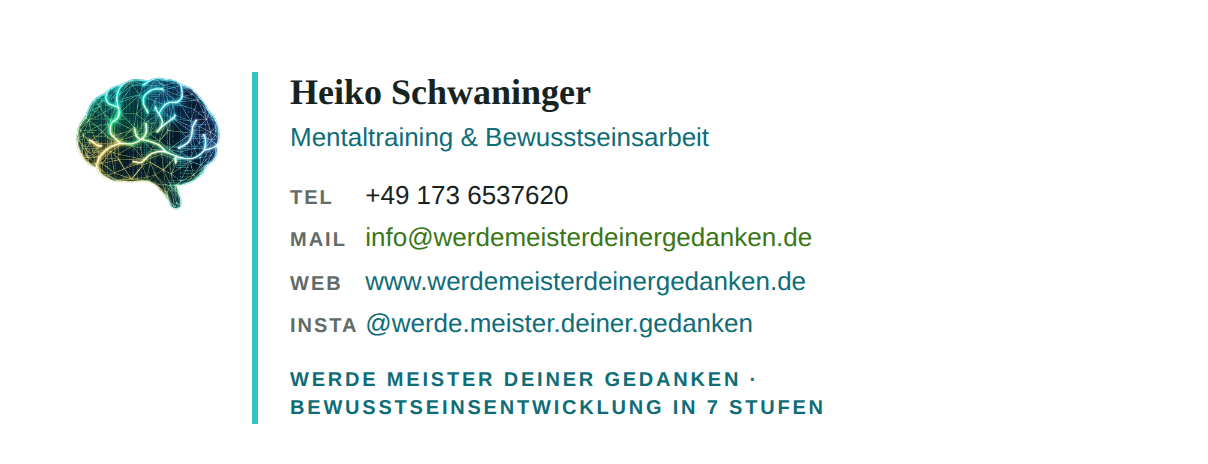
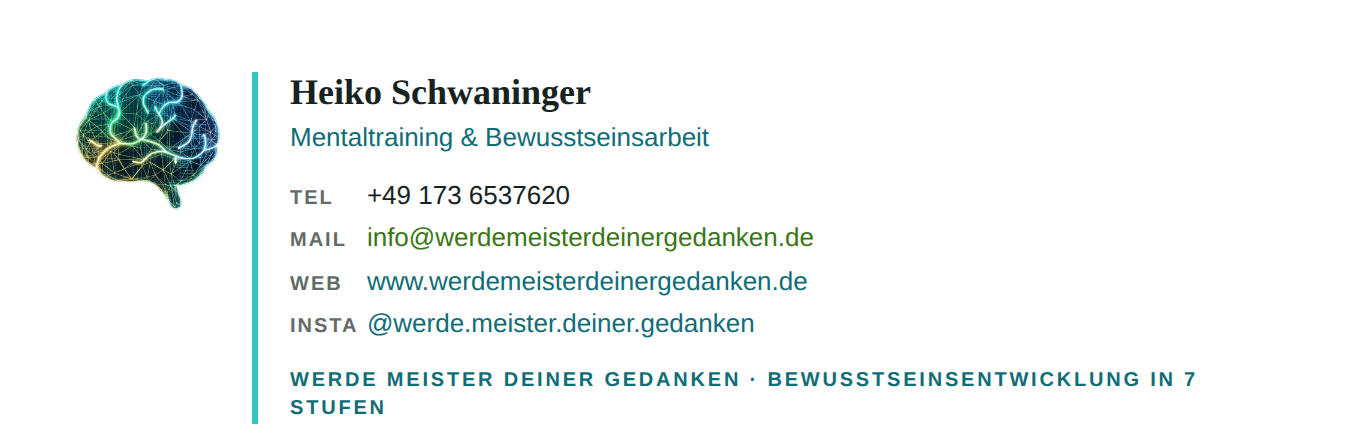
feat(print): Dark-Mode-Variante der E-Mail-Signatur
Der Signatur-Generator erzeugt jetzt zwei Varianten (signature("light"|"dark")):
- hell: kein eigener Grund, AA-Ersatztöne – für helle Mail-Oberflächen.
- dunkel: Navy-Karte mit eigenem Grund (bleibt dunkel, egal wie der Client
  rendert), Emblem-Glow, heller Name, Teal-300/Grün-Akzente – für Dark-Mode.

Neue Ausgaben: WMDG-Email-Signatur-Dark-Snippet.html und -Dark-Vorschau.png;
die Anleitungsseite zeigt beide Varianten samt Quelltext. Zwei Farbtokens
(teal300, slate/creamDim) in marke.mjs ergänzt.

- tools/print/README.md und Brandbook Kap. 07 nachgezogen.

Claude-Session: https://claude.ai/code/session_017ADpWozdCkf8oCMjoArAkE

Changed region(s): [[0.0306, 0.1491, 0.8882, 0.9839]]

diff --git a/tools/print/out/WMDG-Email-Signatur.html b/tools/print/out/WMDG-Email-Signatur.html
@@ -10,12 +10,13 @@
   pre{background:#f6f4ee;border:1px solid #e2ddd0;border-radius:10px;padding:16px;overflow-x:auto;font:400 12px/1.5 ui-monospace,Menlo,Consolas,monospace;color:#2a352f;white-space:pre-wrap;word-break:break-word;}
   ol{margin:0;padding-left:20px;color:#565f5b;} ol li{margin:6px 0;}
   code{background:#f6f4ee;padding:1px 5px;border-radius:5px;font:400 13px/1 ui-monospace,Menlo,Consolas,monospace;}
+  .tag{display:inline-block;font:700 10px/1 Arial, 'Helvetica Neue', Helvetica, sans-serif;letter-spacing:.1em;text-transform:uppercase;color:#626b67;margin-bottom:12px;}
 </style></head><body><div class="wrap">
   <h1>E-Mail-Signatur</h1>
   <p class="lead">Werde Meister deiner Gedanken · fertig zum Einsetzen in Gmail, Outlook &amp; Apple Mail.</p>
 
   <div class="card">
-    <h2>Vorschau</h2>
+    <span class="tag">Hell — für helle Mail-Oberflächen</span>
     <table role="presentation" cellpadding="0" cellspacing="0" border="0" style="border-collapse:collapse;font-family:Arial, 'Helvetica Neue', Helvetica, sans-serif;">
   <tr>
     <td valign="top" style="padding:0 16px 0 0;">
@@ -26,25 +27,25 @@
       <div style="font:400 13px/1.4 Arial, 'Helvetica Neue', Helvetica, sans-serif;color:#0f6d77;padding-top:2px;">Mentaltraining & Bewusstseinsarbeit</div>
       <table role="presentation" cellpadding="0" cellspacing="0" border="0" style="border-collapse:collapse;margin-top:9px;">
         <tr>
-    <td style="padding:1px 0;font:400 13px/1.5 Arial, 'Helvetica Neue', Helvetica, sans-serif;color:#626b67;white-space:nowrap;" valign="top">
+    <td style="padding:1px 0;white-space:nowrap;" valign="top">
       <span style="display:inline-block;width:34px;font:700 10px/1.5 Arial, 'Helvetica Neue', Helvetica, sans-serif;letter-spacing:.10em;text-transform:uppercase;color:#626b67;">Tel</span>
       <span style="font:400 13px/1.5 Arial, 'Helvetica Neue', Helvetica, sans-serif;color:#16231f;"><a href="tel:+491736537620" style="color:#16231f;text-decoration:none;">+49 173 6537620</a></span>
     </td>
   </tr>
         <tr>
-    <td style="padding:1px 0;font:400 13px/1.5 Arial, 'Helvetica Neue', Helvetica, sans-serif;color:#626b67;white-space:nowrap;" valign="top">
+    <td style="padding:1px 0;white-space:nowrap;" valign="top">
       <span style="display:inline-block;width:34px;font:700 10px/1.5 Arial, 'Helvetica Neue', Helvetica, sans-serif;letter-spacing:.10em;text-transform:uppercase;color:#626b67;">Mail</span>
       <span style="font:400 13px/1.5 Arial, 'Helvetica Neue', Helvetica, sans-serif;color:#16231f;"><a href="mailto:info@werdemeisterdeinergedanken.de" style="color:#3a7615;text-decoration:none;">info@werdemeisterdeinergedanken.de</a></span>
     </td>
   </tr>
         <tr>
-    <td style="padding:1px 0;font:400 13px/1.5 Arial, 'Helvetica Neue', Helvetica, sans-serif;color:#626b67;white-space:nowrap;" valign="top">
+    <td style="padding:1px 0;white-space:nowrap;" valign="top">
       <span style="display:inline-block;width:34px;font:700 10px/1.5 Arial, 'Helvetica Neue', Helvetica, sans-serif;letter-spacing:.10em;text-transform:uppercase;color:#626b67;">Web</span>
       <span style="font:400 13px/1.5 Arial, 'Helvetica Neue', Helvetica, sans-serif;color:#16231f;"><a href="https://www.werdemeisterdeinergedanken.de" style="color:#0f6d77;text-decoration:none;">www.werdemeisterdeinergedanken.de</a></span>
     </td>
   </tr>
         <tr>
-    <td style="padding:1px 0;font:400 13px/1.5 Arial, 'Helvetica Neue', Helvetica, sans-serif;color:#626b67;white-space:nowrap;" valign="top">
+    <td style="padding:1px 0;white-space:nowrap;" valign="top">
       <span style="display:inline-block;width:34px;font:700 10px/1.5 Arial, 'Helvetica Neue', Helvetica, sans-serif;letter-spacing:.10em;text-transform:uppercase;color:#626b67;">Insta</span>
       <span style="font:400 13px/1.5 Arial, 'Helvetica Neue', Helvetica, sans-serif;color:#16231f;"><a href="https://www.instagram.com/werde.meister.deiner.gedanken/" style="color:#0f6d77;text-decoration:none;">@werde.meister.deiner.gedanken</a></span>
     </td>
@@ -57,16 +58,59 @@
   </div>
 
   <div class="card">
+    <span class="tag">Dunkel — für dunkle Mail-Oberflächen / Dark Mode</span>
+    <table role="presentation" cellpadding="0" cellspacing="0" border="0" style="border-collapse:separate;background:#08102a;padding:22px 26px;border-radius:12px;font-family:Arial, 'Helvetica Neue', Helvetica, sans-serif;">
+  <tr>
+    <td valign="top" style="padding:0 16px 0 0;">
+      <img src="https://www.werdemeisterdeinergedanken.de/email/wmdg-signatur-logo.png" width="72" height="72" alt="Werde Meister deiner Gedanken" style="display:block;width:72px;height:72px;border:0;outline:none;">
+    </td>
+    <td valign="top" style="padding:0 0 0 16px;border-left:3px solid #5fd6d2;">
+      <div style="font:700 18px/1.2 Georgia, 'Times New Roman', Times, serif;color:#f4f2ec;">Heiko Schwaninger</div>
+      <div style="font:400 13px/1.4 Arial, 'Helvetica Neue', Helvetica, sans-serif;color:#5fd6d2;padding-top:2px;">Mentaltraining & Bewusstseinsarbeit</div>
+      <table role="presentation" cellpadding="0" cellspacing="0" border="0" style="border-collapse:collapse;margin-top:9px;">
+        <tr>
+    <td style="padding:1px 0;white-space:nowrap;" valign="top">
+      <span style="display:inline-block;width:34px;font:700 10px/1.5 Arial, 'Helvetica Neue', Helvetica, sans-serif;letter-spacing:.10em;text-transform:uppercase;color:#9aa7b8;">Tel</span>
+      <span style="font:400 13px/1.5 Arial, 'Helvetica Neue', Helvetica, sans-serif;color:#f4f2ec;"><a href="tel:+491736537620" style="color:#f4f2ec;text-decoration:none;">+49 173 6537620</a></span>
+    </td>
+  </tr>
+        <tr>
+    <td style="padding:1px 0;white-space:nowrap;" valign="top">
+      <span style="display:inline-block;width:34px;font:700 10px/1.5 Arial, 'Helvetica Neue', Helvetica, sans-serif;letter-spacing:.10em;text-transform:uppercase;color:#9aa7b8;">Mail</span>
+      <span style="font:400 13px/1.5 Arial, 'Helvetica Neue', Helvetica, sans-serif;color:#f4f2ec;"><a href="mailto:info@werdemeisterdeinergedanken.de" style="color:#a3d64f;text-decoration:none;">info@werdemeisterdeinergedanken.de</a></span>
+    </td>
+  </tr>
+        <tr>
+    <td style="padding:1px 0;white-space:nowrap;" valign="top">
+      <span style="display:inline-block;width:34px;font:700 10px/1.5 Arial, 'Helvetica Neue', Helvetica, sans-serif;letter-spacing:.10em;text-transform:uppercase;color:#9aa7b8;">Web</span>
+      <span style="font:400 13px/1.5 Arial, 'Helvetica Neue', Helvetica, sans-serif;color:#f4f2ec;"><a href="https://www.werdemeisterdeinergedanken.de" style="color:#5fd6d2;text-decoration:none;">www.werdemeisterdeinergedanken.de</a></span>
+    </td>
+  </tr>
+        <tr>
+    <td style="padding:1px 0;white-space:nowrap;" valign="top">
+      <span style="display:inline-block;width:34px;font:700 10px/1.5 Arial, 'Helvetica Neue', Helvetica, sans-serif;letter-spacing:.10em;text-transform:uppercase;color:#9aa7b8;">Insta</span>
+      <span style="font:400 13px/1.5 Arial, 'Helvetica Neue', Helvetica, sans-serif;color:#f4f2ec;"><a href="https://www.instagram.com/werde.meister.deiner.gedanken/" style="color:#5fd6d2;text-decoration:none;">@werde.meister.deiner.gedanken</a></span>
+    </td>
+  </tr>
+      </table>
+      <div style="font:700 10px/1.4 Arial, 'Helvetica Neue', Helvetica, sans-serif;letter-spacing:.14em;text-transform:uppercase;color:#5fd6d2;padding-top:11px;">Werde Meister deiner Gedanken · Bewusstseinsentwicklung in 7 Stufen</div>
+    </td>
+  </tr>
+</table>
+  </div>
+
+  <div class="card">
     <h2>So setzt du sie ein</h2>
     <ol>
-      <li><b>Gmail / Apple Mail:</b> die Signatur oben mit der Maus markieren, kopieren (⌘/Strg+C) und im Signatur-Editor einfügen (⌘/Strg+V).</li>
-      <li><b>Outlook / HTML-Editoren:</b> den Quelltext unten verwenden (Datei <code>WMDG-Email-Signatur-Snippet.html</code>).</li>
-      <li>Das Logo wird von <code>https://www.werdemeisterdeinergedanken.de/email/wmdg-signatur-logo.png</code> geladen – erst nach dem nächsten Website-Deploy erreichbar. Bis dahin zeigt die Vorschau ggf. ein leeres Bild.</li>
+      <li>Die gewünschte Variante (hell <b>oder</b> dunkel) mit der Maus markieren, kopieren (⌘/Strg+C) und im Signatur-Editor einfügen (⌘/Strg+V) — Gmail, Apple Mail.</li>
+      <li><b>Outlook / HTML-Editoren:</b> den passenden Quelltext bzw. die Snippet-Datei verwenden (<code>…-Snippet.html</code> hell, <code>…-Dark-Snippet.html</code> dunkel).</li>
+      <li>Die <b>dunkle</b> Variante bringt ihren eigenen Navy-Grund mit — sie bleibt dunkel, egal ob der Client hell oder dunkel darstellt. Die <b>helle</b> hat keinen eigenen Grund; zwingt ein Client sie in Dark Mode, kann sie dort schlechter lesbar werden — dann die dunkle nehmen.</li>
+      <li>Das Logo wird von <code>https://www.werdemeisterdeinergedanken.de/email/wmdg-signatur-logo.png</code> geladen — erst nach dem nächsten Website-Deploy erreichbar. Bis dahin zeigt die Vorschau ggf. ein leeres Bild.</li>
     </ol>
   </div>
 
   <div class="card">
-    <h2>Quelltext (HTML)</h2>
+    <h2>Quelltext — hell</h2>
     <pre>&lt;table role="presentation" cellpadding="0" cellspacing="0" border="0" style="border-collapse:collapse;font-family:Arial, 'Helvetica Neue', Helvetica, sans-serif;"&gt;
   &lt;tr&gt;
     &lt;td valign="top" style="padding:0 16px 0 0;"&gt;
@@ -77,31 +121,73 @@
       &lt;div style="font:400 13px/1.4 Arial, 'Helvetica Neue', Helvetica, sans-serif;color:#0f6d77;padding-top:2px;"&gt;Mentaltraining &amp; Bewusstseinsarbeit&lt;/div&gt;
       &lt;table role="presentation" cellpadding="0" cellspacing="0" border="0" style="border-collapse:collapse;margin-top:9px;"&gt;
         &lt;tr&gt;
-    &lt;td style="padding:1px 0;font:400 13px/1.5 Arial, 'Helvetica Neue', Helvetica, sans-serif;color:#626b67;white-space:nowrap;" valign="top"&gt;
+    &lt;td style="padding:1px 0;white-space:nowrap;" valign="top"&gt;
       &lt;span style="display:inline-block;width:34px;font:700 10px/1.5 Arial, 'Helvetica Neue', Helvetica, sans-serif;letter-spacing:.10em;text-transform:uppercase;color:#626b67;"&gt;Tel&lt;/span&gt;
       &lt;span style="font:400 13px/1.5 Arial, 'Helvetica Neue', Helvetica, sans-serif;color:#16231f;"&gt;&lt;a href="tel:+491736537620" style="color:#16231f;text-decoration:none;"&gt;+49 173 6537620&lt;/a&gt;&lt;/span&gt;
     &lt;/td&gt;
   &lt;/tr&gt;
         &lt;tr&gt;
-    &lt;td style="padding:1px 0;font:400 13px/1.5 Arial, 'Helvetica Neue', Helvetica, sans-serif;color:#626b67;white-space:nowrap;" valign="top"&gt;
+    &lt;td style="padding:1px 0;white-space:nowrap;" valign="top"&gt;
       &lt;span style="display:inline-block;width:34px;font:700 10px/1.5 Arial, 'Helvetica Neue', Helvetica, sans-serif;letter-spacing:.10em;text-transform:uppercase;color:#626b67;"&gt;Mail&lt;/span&gt;
       &lt;span style="font:400 13px/1.5 Arial, 'Helvetica Neue', Helvetica, sans-serif;color:#16231f;"&gt;&lt;a href="mailto:info@werdemeisterdeinergedanken.de" style="color:#3a7615;text-decoration:none;"&gt;info@werdemeisterdeinergedanken.de&lt;/a&gt;&lt;/span&gt;
     &lt;/td&gt;
   &lt;/tr&gt;
         &lt;tr&gt;
-    &lt;td style="padding:1px 0;font:400 13px/1.5 Arial, 'Helvetica Neue', Helvetica, sans-serif;color:#626b67;white-space:nowrap;" valign="top"&gt;
+    &lt;td style="padding:1px 0;white-space:nowrap;" valign="top"&gt;
       &lt;span style="display:inline-block;width:34px;font:700 10px/1.5 Arial, 'Helvetica Neue', Helvetica, sans-serif;letter-spacing:.10em;text-transform:uppercase;color:#626b67;"&gt;Web&lt;/span&gt;
       &lt;span style="font:400 13px/1.5 Arial, 'Helvetica Neue', Helvetica, sans-serif;color:#16231f;"&gt;&lt;a href="https://www.werdemeisterdeinergedanken.de" style="color:#0f6d77;text-decoration:none;"&gt;www.werdemeisterdeinergedanken.de&lt;/a&gt;&lt;/span&gt;
     &lt;/td&gt;
   &lt;/tr&gt;
         &lt;tr&gt;
-    &lt;td style="padding:1px 0;font:400 13px/1.5 Arial, 'Helvetica Neue', Helvetica, sans-serif;color:#626b67;white-space:nowrap;" valign="top"&gt;
+    &lt;td style="padding:1px 0;white-space:nowrap;" valign="top"&gt;
       &lt;span style="display:inline-block;width:34px;font:700 10px/1.5 Arial, 'Helvetica Neue', Helvetica, sans-serif;letter-spacing:.10em;text-transform:uppercase;color:#626b67;"&gt;Insta&lt;/span&gt;
       &lt;span style="font:400 13px/1.5 Arial, 'Helvetica Neue', Helvetica, sans-serif;color:#16231f;"&gt;&lt;a href="https://www.instagram.com/werde.meister.deiner.gedanken/" style="color:#0f6d77;text-decoration:none;"&gt;@werde.meister.deiner.gedanken&lt;/a&gt;&lt;/span&gt;
     &lt;/td&gt;
   &lt;/tr&gt;
       &lt;/table&gt;
       &lt;div style="font:700 10px/1.4 Arial, 'Helvetica Neue', Helvetica, sans-serif;letter-spacing:.14em;text-transform:uppercase;color:#0f6d77;padding-top:11px;"&gt;Werde Meister deiner Gedanken · Bewusstseinsentwicklung in 7 Stufen&lt;/div&gt;
+    &lt;/td&gt;
+  &lt;/tr&gt;
+&lt;/table&gt;</pre>
+  </div>
+
+  <div class="card">
+    <h2>Quelltext — dunkel</h2>
+    <pre>&lt;table role="presentation" cellpadding="0" cellspacing="0" border="0" style="border-collapse:separate;background:#08102a;padding:22px 26px;border-radius:12px;font-family:Arial, 'Helvetica Neue', Helvetica, sans-serif;"&gt;
+  &lt;tr&gt;
+    &lt;td valign="top" style="padding:0 16px 0 0;"&gt;
+      &lt;img src="https://www.werdemeisterdeinergedanken.de/email/wmdg-signatur-logo.png" width="72" height="72" alt="Werde Meister deiner Gedanken" style="display:block;width:72px;height:72px;border:0;outline:none;"&gt;
+    &lt;/td&gt;
+    &lt;td valign="top" style="padding:0 0 0 16px;border-left:3px solid #5fd6d2;"&gt;
+      &lt;div style="font:700 18px/1.2 Georgia, 'Times New Roman', Times, serif;color:#f4f2ec;"&gt;Heiko Schwaninger&lt;/div&gt;
+      &lt;div style="font:400 13px/1.4 Arial, 'Helvetica Neue', Helvetica, sans-serif;color:#5fd6d2;padding-top:2px;"&gt;Mentaltraining &amp; Bewusstseinsarbeit&lt;/div&gt;
+      &lt;table role="presentation" cellpadding="0" cellspacing="0" border="0" style="border-collapse:collapse;margin-top:9px;"&gt;
+        &lt;tr&gt;
+    &lt;td style="padding:1px 0;white-space:nowrap;" valign="top"&gt;
+      &lt;span style="display:inline-block;width:34px;font:700 10px/1.5 Arial, 'Helvetica Neue', Helvetica, sans-serif;letter-spacing:.10em;text-transform:uppercase;color:#9aa7b8;"&gt;Tel&lt;/span&gt;
+      &lt;span style="font:400 13px/1.5 Arial, 'Helvetica Neue', Helvetica, sans-serif;color:#f4f2ec;"&gt;&lt;a href="tel:+491736537620" style="color:#f4f2ec;text-decoration:none;"&gt;+49 173 6537620&lt;/a&gt;&lt;/span&gt;
+    &lt;/td&gt;
+  &lt;/tr&gt;
+        &lt;tr&gt;
+    &lt;td style="padding:1px 0;white-space:nowrap;" valign="top"&gt;
+      &lt;span style="display:inline-block;width:34px;font:700 10px/1.5 Arial, 'Helvetica Neue', Helvetica, sans-serif;letter-spacing:.10em;text-transform:uppercase;color:#9aa7b8;"&gt;Mail&lt;/span&gt;
+      &lt;span style="font:400 13px/1.5 Arial, 'Helvetica Neue', Helvetica, sans-serif;color:#f4f2ec;"&gt;&lt;a href="mailto:info@werdemeisterdeinergedanken.de" style="color:#a3d64f;text-decoration:none;"&gt;info@werdemeisterdeinergedanken.de&lt;/a&gt;&lt;/span&gt;
+    &lt;/td&gt;
+  &lt;/tr&gt;
+        &lt;tr&gt;
+    &lt;td style="padding:1px 0;white-space:nowrap;" valign="top"&gt;
+      &lt;span style="display:inline-block;width:34px;font:700 10px/1.5 Arial, 'Helvetica Neue', Helvetica, sans-serif;letter-spacing:.10em;text-transform:uppercase;color:#9aa7b8;"&gt;Web&lt;/span&gt;
+      &lt;span style="font:400 13px/1.5 Arial, 'Helvetica Neue', Helvetica, sans-serif;color:#f4f2ec;"&gt;&lt;a href="https://www.werdemeisterdeinergedanken.de" style="color:#5fd6d2;text-decoration:none;"&gt;www.werdemeisterdeinergedanken.de&lt;/a&gt;&lt;/span&gt;
+    &lt;/td&gt;
+  &lt;/tr&gt;
+        &lt;tr&gt;
+    &lt;td style="padding:1px 0;white-space:nowrap;" valign="top"&gt;
+      &lt;span style="display:inline-block;width:34px;font:700 10px/1.5 Arial, 'Helvetica Neue', Helvetica, sans-serif;letter-spacing:.10em;text-transform:uppercase;color:#9aa7b8;"&gt;Insta&lt;/span&gt;
+      &lt;span style="font:400 13px/1.5 Arial, 'Helvetica Neue', Helvetica, sans-serif;color:#f4f2ec;"&gt;&lt;a href="https://www.instagram.com/werde.meister.deiner.gedanken/" style="color:#5fd6d2;text-decoration:none;"&gt;@werde.meister.deiner.gedanken&lt;/a&gt;&lt;/span&gt;
+    &lt;/td&gt;
+  &lt;/tr&gt;
+      &lt;/table&gt;
+      &lt;div style="font:700 10px/1.4 Arial, 'Helvetica Neue', Helvetica, sans-serif;letter-spacing:.14em;text-transform:uppercase;color:#5fd6d2;padding-top:11px;"&gt;Werde Meister deiner Gedanken · Bewusstseinsentwicklung in 7 Stufen&lt;/div&gt;
     &lt;/td&gt;
   &lt;/tr&gt;
 &lt;/table&gt;</pre>

diff --git a/tools/print/out/WMDG-Email-Signatur-Dark-Snippet.html b/tools/print/out/WMDG-Email-Signatur-Dark-Snippet.html
@@ -1,0 +1,40 @@
+<!doctype html><html><head><meta charset="utf-8"></head><body style="background:#08102a;">
+<table role="presentation" cellpadding="0" cellspacing="0" border="0" style="border-collapse:separate;background:#08102a;padding:22px 26px;border-radius:12px;font-family:Arial, 'Helvetica Neue', Helvetica, sans-serif;">
+  <tr>
+    <td valign="top" style="padding:0 16px 0 0;">
+      <img src="https://www.werdemeisterdeinergedanken.de/email/wmdg-signatur-logo.png" width="72" height="72" alt="Werde Meister deiner Gedanken" style="display:block;width:72px;height:72px;border:0;outline:none;">
+    </td>
+    <td valign="top" style="padding:0 0 0 16px;border-left:3px solid #5fd6d2;">
+      <div style="font:700 18px/1.2 Georgia, 'Times New Roman', Times, serif;color:#f4f2ec;">Heiko Schwaninger</div>
+      <div style="font:400 13px/1.4 Arial, 'Helvetica Neue', Helvetica, sans-serif;color:#5fd6d2;padding-top:2px;">Mentaltraining & Bewusstseinsarbeit</div>
+      <table role="presentation" cellpadding="0" cellspacing="0" border="0" style="border-collapse:collapse;margin-top:9px;">
+        <tr>
+    <td style="padding:1px 0;white-space:nowrap;" valign="top">
+      <span style="display:inline-block;width:34px;font:700 10px/1.5 Arial, 'Helvetica Neue', Helvetica, sans-serif;letter-spacing:.10em;text-transform:uppercase;color:#9aa7b8;">Tel</span>
+      <span style="font:400 13px/1.5 Arial, 'Helvetica Neue', Helvetica, sans-serif;color:#f4f2ec;"><a href="tel:+491736537620" style="color:#f4f2ec;text-decoration:none;">+49 173 6537620</a></span>
+    </td>
+  </tr>
+        <tr>
+    <td style="padding:1px 0;white-space:nowrap;" valign="top">
+      <span style="display:inline-block;width:34px;font:700 10px/1.5 Arial, 'Helvetica Neue', Helvetica, sans-serif;letter-spacing:.10em;text-transform:uppercase;color:#9aa7b8;">Mail</span>
+      <span style="font:400 13px/1.5 Arial, 'Helvetica Neue', Helvetica, sans-serif;color:#f4f2ec;"><a href="mailto:info@werdemeisterdeinergedanken.de" style="color:#a3d64f;text-decoration:none;">info@werdemeisterdeinergedanken.de</a></span>
+    </td>
+  </tr>
+        <tr>
+    <td style="padding:1px 0;white-space:nowrap;" valign="top">
+      <span style="display:inline-block;width:34px;font:700 10px/1.5 Arial, 'Helvetica Neue', Helvetica, sans-serif;letter-spacing:.10em;text-transform:uppercase;color:#9aa7b8;">Web</span>
+      <span style="font:400 13px/1.5 Arial, 'Helvetica Neue', Helvetica, sans-serif;color:#f4f2ec;"><a href="https://www.werdemeisterdeinergedanken.de" style="color:#5fd6d2;text-decoration:none;">www.werdemeisterdeinergedanken.de</a></span>
+    </td>
+  </tr>
+        <tr>
+    <td style="padding:1px 0;white-space:nowrap;" valign="top">
+      <span style="display:inline-block;width:34px;font:700 10px/1.5 Arial, 'Helvetica Neue', Helvetica, sans-serif;letter-spacing:.10em;text-transform:uppercase;color:#9aa7b8;">Insta</span>
+      <span style="font:400 13px/1.5 Arial, 'Helvetica Neue', Helvetica, sans-serif;color:#f4f2ec;"><a href="https://www.instagram.com/werde.meister.deiner.gedanken/" style="color:#5fd6d2;text-decoration:none;">@werde.meister.deiner.gedanken</a></span>
+    </td>
+  </tr>
+      </table>
+      <div style="font:700 10px/1.4 Arial, 'Helvetica Neue', Helvetica, sans-serif;letter-spacing:.14em;text-transform:uppercase;color:#5fd6d2;padding-top:11px;">Werde Meister deiner Gedanken · Bewusstseinsentwicklung in 7 Stufen</div>
+    </td>
+  </tr>
+</table>
+</body></html>

diff --git a/tools/print/out/WMDG-Email-Signatur-Snippet.html b/tools/print/out/WMDG-Email-Signatur-Snippet.html
@@ -1,4 +1,4 @@
-<!doctype html><html><head><meta charset="utf-8"></head><body>
+<!doctype html><html><head><meta charset="utf-8"></head><body style="background:#ffffff;">
 <table role="presentation" cellpadding="0" cellspacing="0" border="0" style="border-collapse:collapse;font-family:Arial, 'Helvetica Neue', Helvetica, sans-serif;">
   <tr>
     <td valign="top" style="padding:0 16px 0 0;">
@@ -9,25 +9,25 @@
       <div style="font:400 13px/1.4 Arial, 'Helvetica Neue', Helvetica, sans-serif;color:#0f6d77;padding-top:2px;">Mentaltraining & Bewusstseinsarbeit</div>
       <table role="presentation" cellpadding="0" cellspacing="0" border="0" style="border-collapse:collapse;margin-top:9px;">
         <tr>
-    <td style="padding:1px 0;font:400 13px/1.5 Arial, 'Helvetica Neue', Helvetica, sans-serif;color:#626b67;white-space:nowrap;" valign="top">
+    <td style="padding:1px 0;white-space:nowrap;" valign="top">
       <span style="display:inline-block;width:34px;font:700 10px/1.5 Arial, 'Helvetica Neue', Helvetica, sans-serif;letter-spacing:.10em;text-transform:uppercase;color:#626b67;">Tel</span>
       <span style="font:400 13px/1.5 Arial, 'Helvetica Neue', Helvetica, sans-serif;color:#16231f;"><a href="tel:+491736537620" style="color:#16231f;text-decoration:none;">+49 173 6537620</a></span>
     </td>
   </tr>
         <tr>
-    <td style="padding:1px 0;font:400 13px/1.5 Arial, 'Helvetica Neue', Helvetica, sans-serif;color:#626b67;white-space:nowrap;" valign="top">
+    <td style="padding:1px 0;white-space:nowrap;" valign="top">
       <span style="display:inline-block;width:34px;font:700 10px/1.5 Arial, 'Helvetica Neue', Helvetica, sans-serif;letter-spacing:.10em;text-transform:uppercase;color:#626b67;">Mail</span>
       <span style="font:400 13px/1.5 Arial, 'Helvetica Neue', Helvetica, sans-serif;color:#16231f;"><a href="mailto:info@werdemeisterdeinergedanken.de" style="color:#3a7615;text-decoration:none;">info@werdemeisterdeinergedanken.de</a></span>
     </td>
   </tr>
         <tr>
-    <td style="padding:1px 0;font:400 13px/1.5 Arial, 'Helvetica Neue', Helvetica, sans-serif;color:#626b67;white-space:nowrap;" valign="top">
+    <td style="padding:1px 0;white-space:nowrap;" valign="top">
       <span style="display:inline-block;width:34px;font:700 10px/1.5 Arial, 'Helvetica Neue', Helvetica, sans-serif;letter-spacing:.10em;text-transform:uppercase;color:#626b67;">Web</span>
       <span style="font:400 13px/1.5 Arial, 'Helvetica Neue', Helvetica, sans-serif;color:#16231f;"><a href="https://www.werdemeisterdeinergedanken.de" style="color:#0f6d77;text-decoration:none;">www.werdemeisterdeinergedanken.de</a></span>
     </td>
   </tr>
         <tr>
-    <td style="padding:1px 0;font:400 13px/1.5 Arial, 'Helvetica Neue', Helvetica, sans-serif;color:#626b67;white-space:nowrap;" valign="top">
+    <td style="padding:1px 0;white-space:nowrap;" valign="top">
       <span style="display:inline-block;width:34px;font:700 10px/1.5 Arial, 'Helvetica Neue', Helvetica, sans-serif;letter-spacing:.10em;text-transform:uppercase;color:#626b67;">Insta</span>
       <span style="font:400 13px/1.5 Arial, 'Helvetica Neue', Helvetica, sans-serif;color:#16231f;"><a href="https://www.instagram.com/werde.meister.deiner.gedanken/" style="color:#0f6d77;text-decoration:none;">@werde.meister.deiner.gedanken</a></span>
     </td>

diff --git a/tools/print/README.md b/tools/print/README.md
@@ -30,10 +30,11 @@ Ausgabe → `tools/print/out/`
 
 | Datei | Inhalt |
 |-------|--------|
-| `WMDG-Email-Signatur.html` | Anleitungsseite: gerenderte Signatur zum Markieren + Kopieren, plus Quelltext |
-| `WMDG-Email-Signatur-Snippet.html` | Nur die Signatur (Tabelle) – für Editoren, die HTML direkt entgegennehmen (Outlook …) |
+| `WMDG-Email-Signatur.html` | Anleitungsseite: **beide** Varianten (hell + dunkel) gerendert zum Markieren + Kopieren, plus Quelltext |
+| `WMDG-Email-Signatur-Snippet.html` | helle Signatur (Tabelle) – für Editoren, die HTML direkt entgegennehmen (Outlook …) |
+| `WMDG-Email-Signatur-Dark-Snippet.html` | dunkle Variante (Navy-Karte) für dunkle Mail-Oberflächen / Dark Mode |
 | `WMDG-Email-Signatur.txt` | Nur-Text-Variante (Fallback) |
-| `WMDG-Email-Signatur-Vorschau.png` | Bildschirm-Vorschau |
+| `WMDG-Email-Signatur-Vorschau.png` / `-Dark-Vorschau.png` | Bildschirm-Vorschauen |
 
 **E-Mail-tauglich gebaut:** Tabellen-Layout, ausschließlich Inline-Styles,
 **websichere Schriften** (Georgia ≈ Fraunces, Arial ≈ Inter – E-Mail-Clients
@@ -45,8 +46,13 @@ nicht) → stattdessen solide, AA-konforme Markenfarben.
   geladen (liegt unter `public/email/`, wird mit der Website ausgeliefert – erst
   **nach dem nächsten Deploy** erreichbar). E-Mail-Clients strippen eingebettete
   Bilder, daher der bewusste Hosting-Weg.
-- **Einsetzen:** Gmail / Apple Mail → Signatur auf der HTML-Seite markieren,
-  kopieren, im Signatur-Editor einfügen. Outlook → `…-Snippet.html` verwenden.
+- **Zwei Varianten:** **hell** (kein eigener Grund, für helle Oberflächen) und
+  **dunkel** (bringt einen eigenen Navy-Grund mit → bleibt dunkel, egal wie der
+  Client rendert; ideal für Dark-Mode-Clients). Auf Navy sind Teal/Grün als
+  Akzent unkritisch (Kap. 04); die helle Variante nutzt die AA-Ersatztöne.
+- **Einsetzen:** Gmail / Apple Mail → gewünschte Variante auf der HTML-Seite
+  markieren, kopieren, im Signatur-Editor einfügen. Outlook → `…-Snippet.html`
+  (hell) bzw. `…-Dark-Snippet.html` (dunkel) verwenden.
 
 ## Aufbau
 

diff --git a/docs/brandbook/07-anwendungen.md b/docs/brandbook/07-anwendungen.md
@@ -118,6 +118,11 @@ seite + Snippet) sowie eine Nur-Text-Variante in `tools/print/out/`.
 Aufbau: Emblem · Teal-Trennlinie · Name (Serife) + Rolle (Teal) · Kontaktzeilen
 (Tel/Mail/Web/Insta) · Markenzeile + Tagline als Eyebrow.
 
+**Zwei Varianten:** **hell** (für helle Mail-Oberflächen, AA-Ersatztöne) und
+**dunkel** (Navy-Karte mit eigenem Grund für Dark-Mode-Clients; auf Navy sind
+Teal-300/Grün als Akzent unkritisch, Kap. 04). Beide werden vom selben Generator
+erzeugt (`signature("light" | "dark")`).
+
 ## Redaktionsplan
 
 Ein kanalübergreifender Redaktionsplan wird über das Redaktions-Team gepflegt
